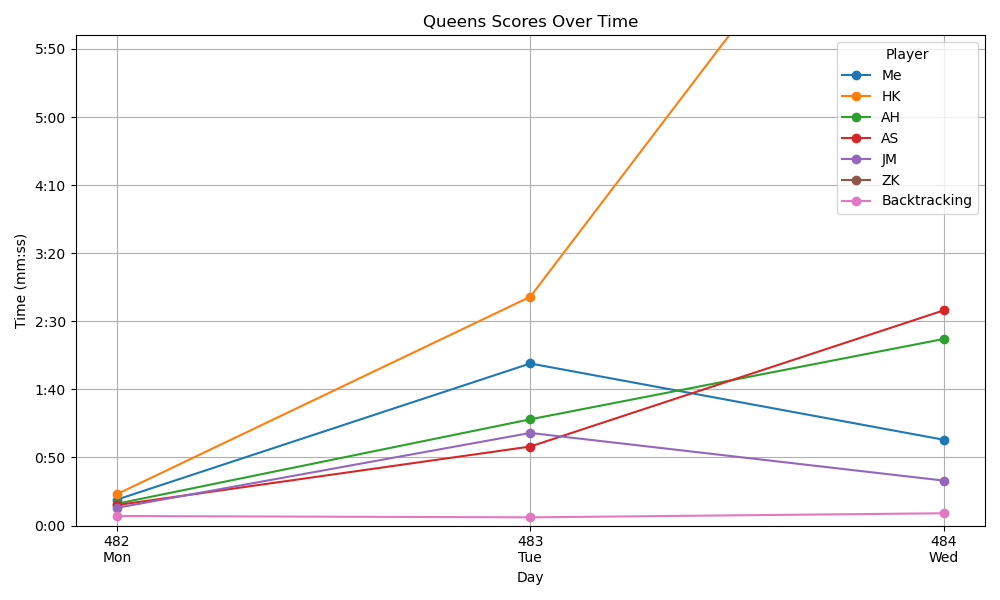
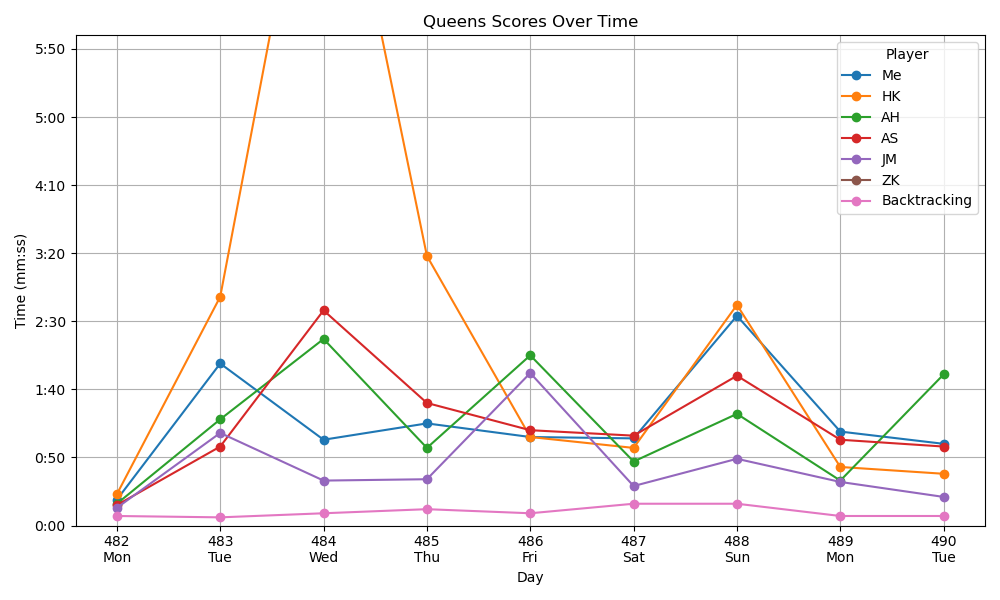
Updated logic in scraping and changed fun facts

diff --git a/Queens/Logic/scrape_scores_from_messages.py b/Queens/Logic/scrape_scores_from_messages.py
@@ -6,7 +6,7 @@ from bs4 import BeautifulSoup
 import time
 import re
 
-def scroll_chat(driver, key_presses=150, pause=0.03):
+def scroll_chat(driver, key_presses=200, pause=0.03):
     """
     Function: Scrolls up the LinkedIn group chat to load more messages
 
@@ -16,16 +16,15 @@ def scroll_chat(driver, key_presses=150, pause=0.03):
         pause: Seconds between each key press
 
     Description: Scrolls up using up keys after pressing within the chat container
-    Future: Send message in gc saying 'Scraping'?
     """
-    for attempt in range(3): # Multiple attempts as it sometimes doesn't work
+    for attempt in range(3):  # Multiple attempts as it sometimes doesn't work
         try:
-            bubbles = driver.find_elements(By.CSS_SELECTOR, ".msg-s-event-listitem__message-bubble") # Find the inside of the chatbox
+            bubbles = driver.find_elements(By.CSS_SELECTOR, ".msg-s-event-listitem__message-bubble")  # Find the inside of the chatbox
             if not bubbles:
                 print("No message bubbles found to scroll.")
                 time.sleep(1)
                 continue
-            target = bubbles[-1] # Latest message
+            target = bubbles[-1]  # Latest message
             driver.execute_script("arguments[0].scrollIntoView(true);", target)
             time.sleep(0.3)
 
@@ -33,22 +32,26 @@ def scroll_chat(driver, key_presses=150, pause=0.03):
             ActionChains(driver).move_to_element_with_offset(target, offset_x, offset_y).click().perform()
             time.sleep(0.3)
 
-            for i in range(key_presses):
+            for i in range(1, key_presses + 1):
                 target.send_keys(Keys.ARROW_UP)
                 time.sleep(pause)
 
-                # After 50 presses, click again at the same offset
-                if i == 49:
-                    ActionChains(driver).move_to_element_with_offset(target, offset_x, offset_y).click().perform()
-                    time.sleep(0.3)
+                # Every multiple of 50, send 2 Down Arrows
+                if i % 50 == 0:
+                    target.send_keys(Keys.ARROW_DOWN)
+                    time.sleep(pause)
+                    target.send_keys(Keys.ARROW_DOWN)
+                    time.sleep(pause)
 
-            print(f"Scrolled chat by sending {key_presses} UP arrow keys with intermediate click.")
+            print(f"Scrolled chat by sending {key_presses} UP arrow keys with 2 DOWN arrows every 50 presses.")
             return True
+
         except (StaleElementReferenceException, NoSuchElementException):
             print(f"Attempt {attempt+1}: Encountered stale element, retrying...")
             time.sleep(1)
     print("Failed to scroll chat by keys after retries.")
     return False
+
 
 def get_chat_html(driver):
     """

diff --git a/Queens/Logic/upload_and_share_plot.py b/Queens/Logic/upload_and_share_plot.py
@@ -111,9 +111,19 @@ def get_fun_fact(df):
 
     # Find player with the current longest win streak
     best_player = max(current_streaks, key=current_streaks.get)
-    if current_streaks[best_player] > 0:
+    if current_streaks[best_player] > 1:  # only count streaks > 1
         name = alias_map.get(best_player, best_player)
         fun_facts.append(f"🔥 {name} is on a {current_streaks[best_player]}-day win streak!")
+
+    # --- Big drop check (yesterday 1st → today last) ---
+    if len(df_secs) >= 2:
+        yesterday = df_secs.iloc[-2][players].dropna()
+        if not yesterday.empty and not today_valid.empty:
+            yesterday_winner = yesterday.idxmin()
+            today_loser = today_valid.idxmax()
+            if yesterday_winner == today_loser:
+                name = alias_map.get(yesterday_winner, yesterday_winner)
+                fun_facts.append(f"⬇ {name} went from 1st yesterday to last today!")
 
     # --- Pick one fact to show ---
     if fun_facts:
